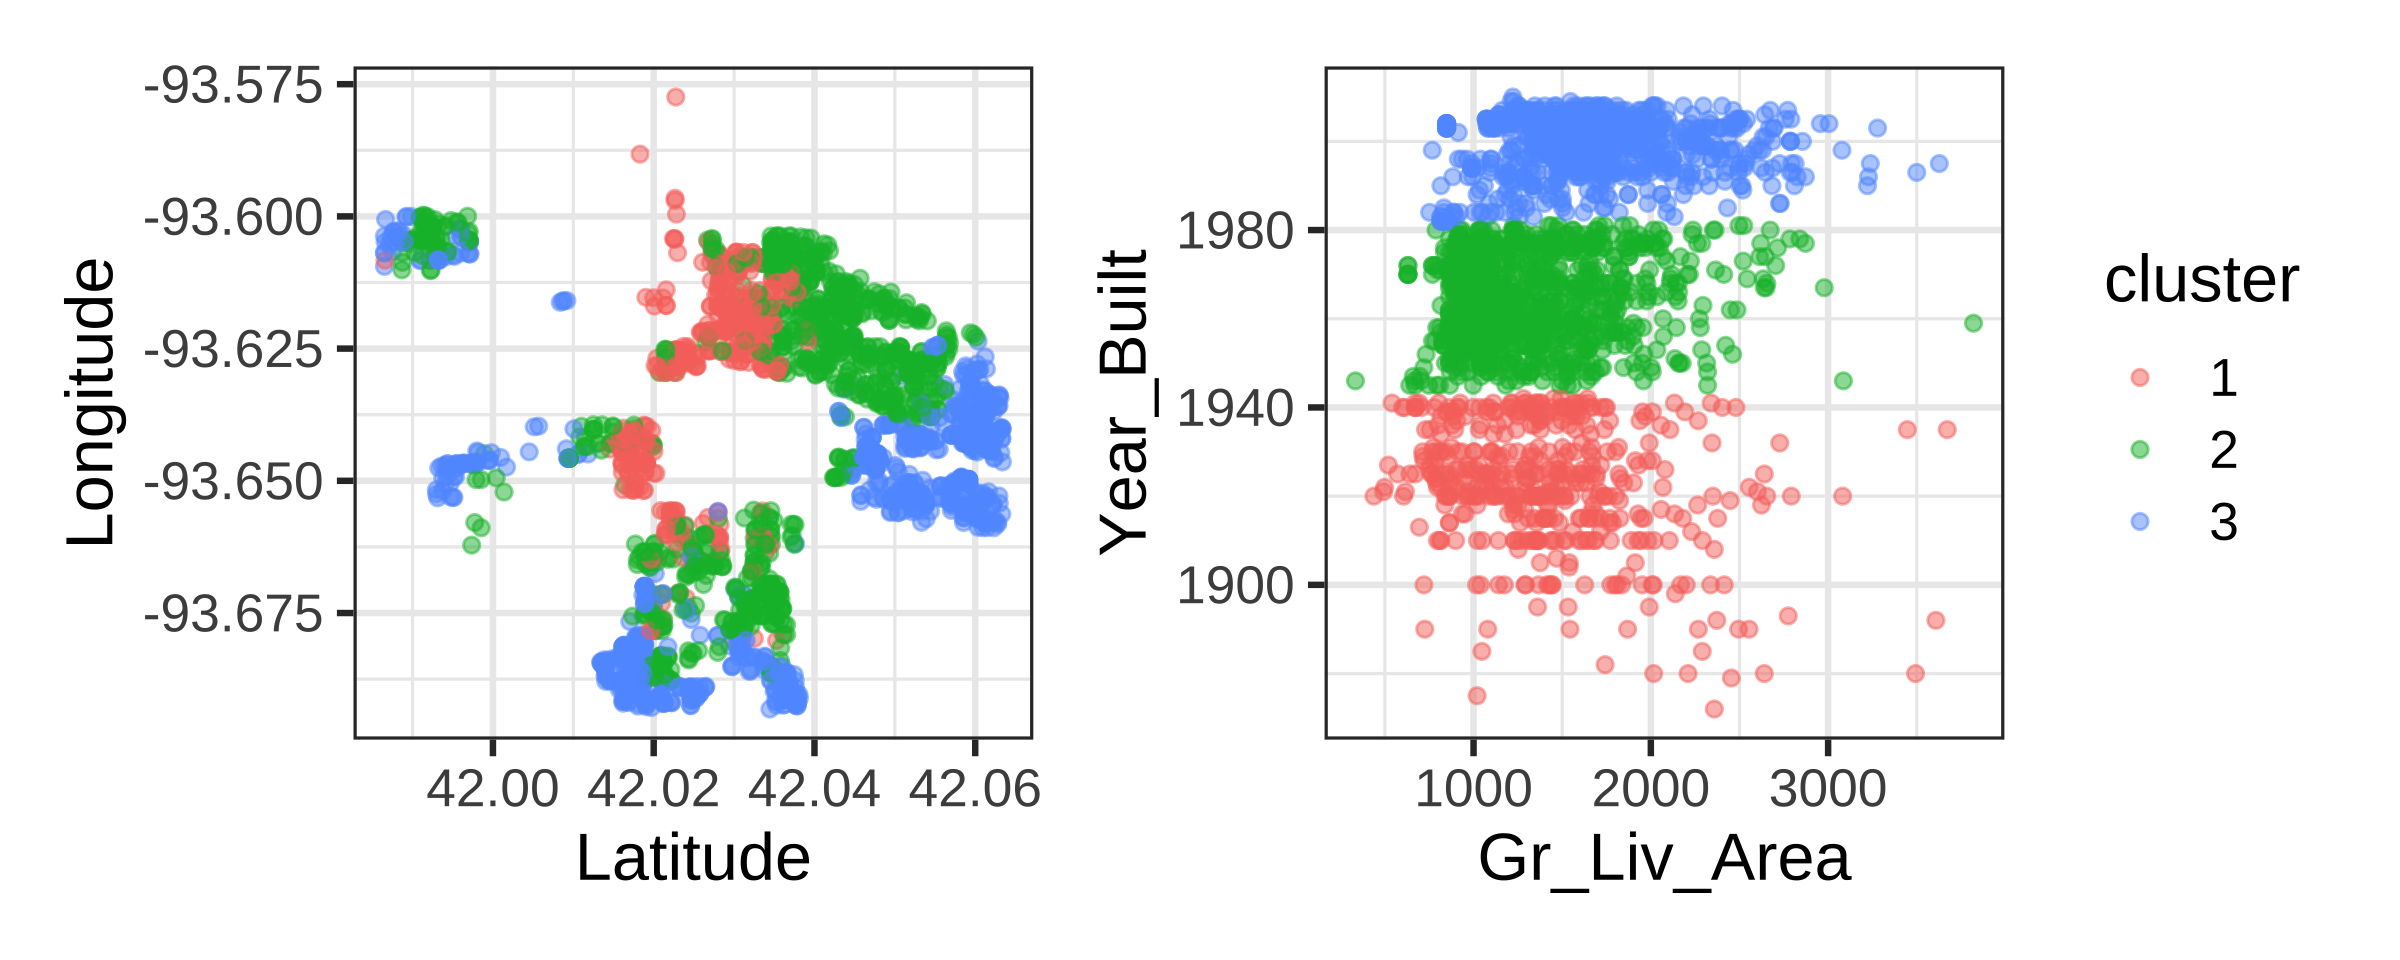
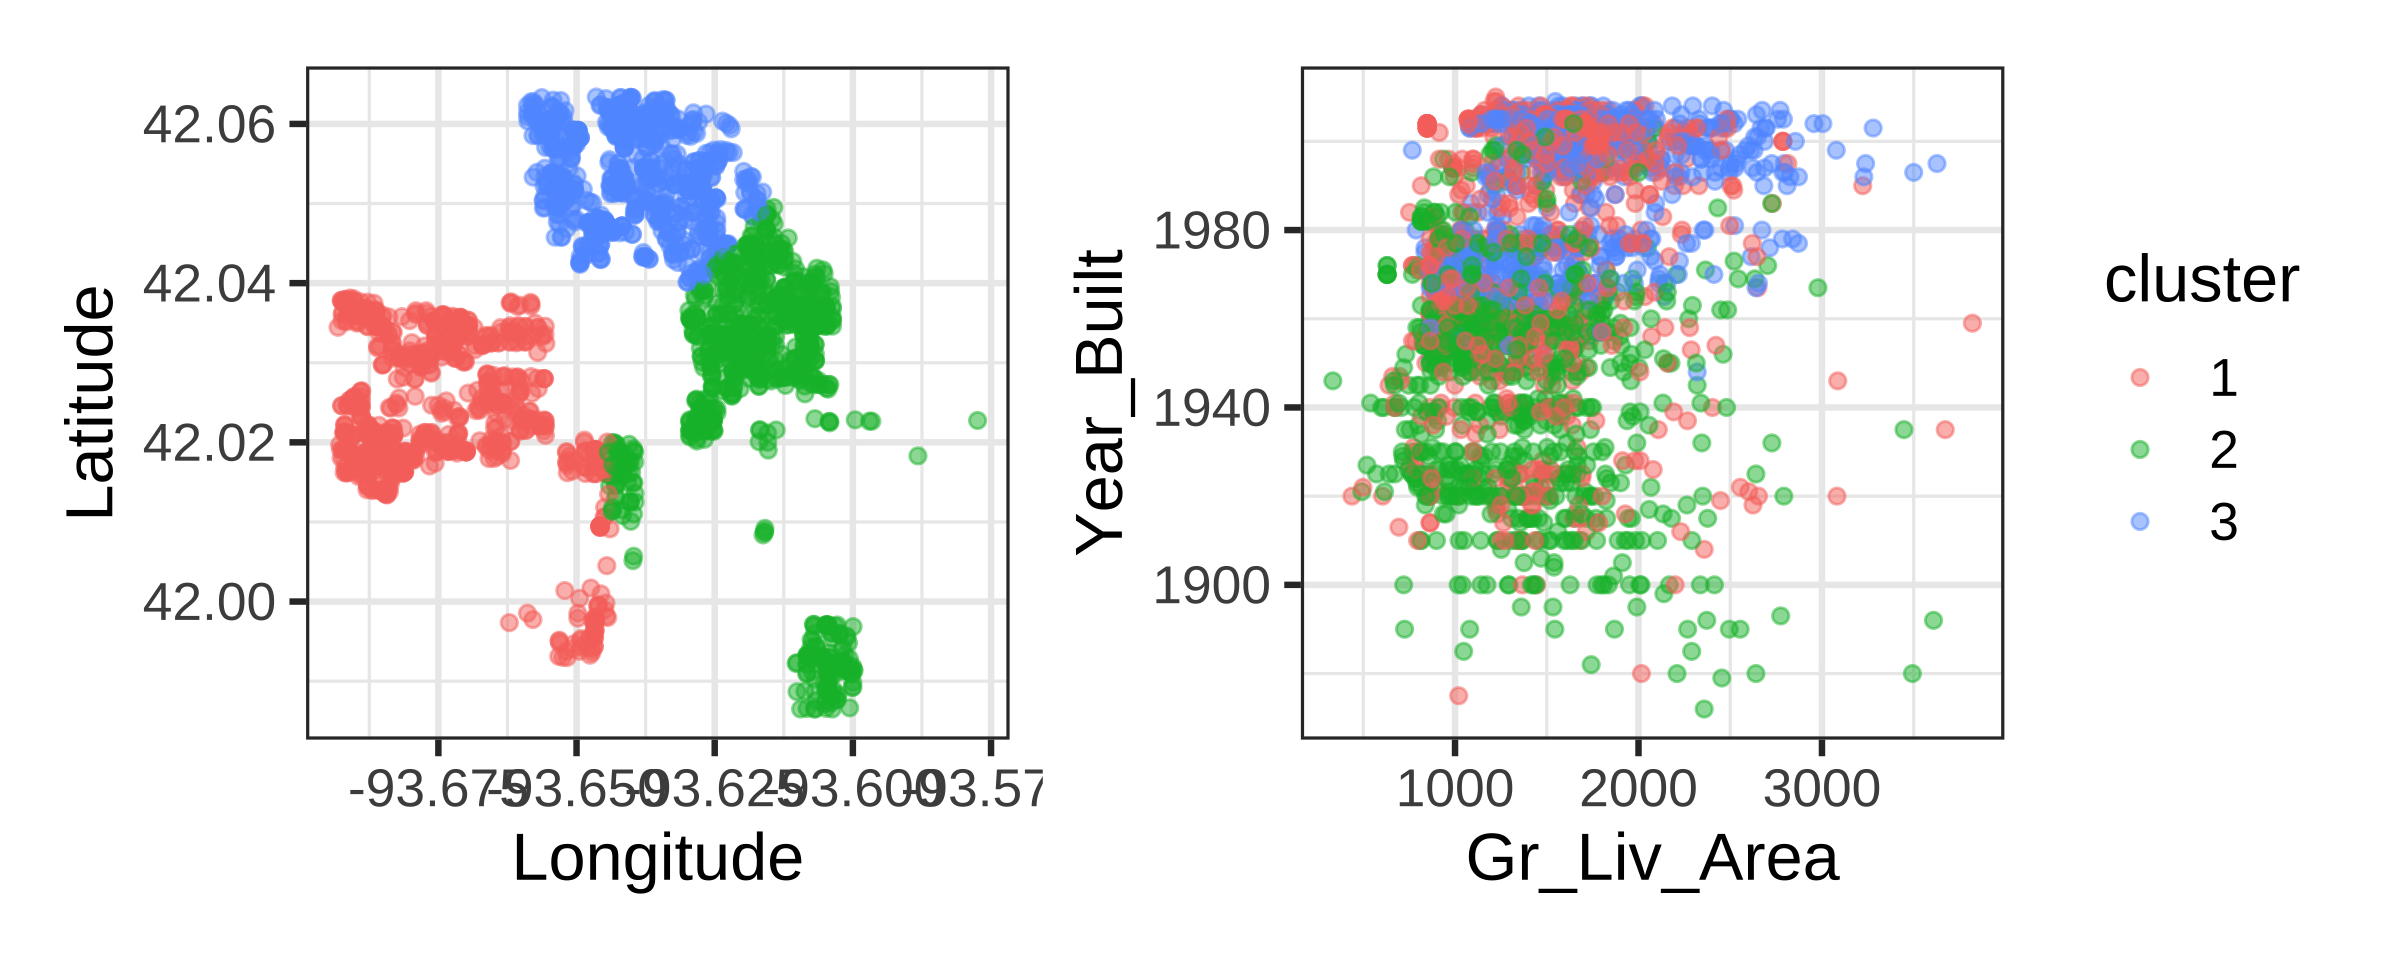
fix Lat/Long flipped, rebuild

diff --git a/docs/ex/ex11/ex11-clustering-inst.html b/docs/ex/ex11/ex11-clustering-inst.html
@@ -504,6 +504,7 @@ padding-left: 1em;
 
 
 <!-- Next year: -->
+<!-- Maybe start by having students figure out what number to divide by to put everything on the same scale. -->
 <!-- - 0-1 scaling for Gr_Liv_Area didn't make enough of a difference for students -->
 <!-- - Provide a mechanism for students to see the effective ranges -->
 <!-- - Provide a visual explanation of the sum-of-squares, or just drop it. -->

diff --git a/docs/slides/w11/w11d2-unsupervised.html b/docs/slides/w11/w11d2-unsupervised.html
@@ -225,7 +225,7 @@ tidy(clustering_results)
 
 ```r
 latlong_plot &lt;- 
-  ggplot(ames_with_clusters, aes(x = Latitude, y = Longitude, color = cluster)) +
+  ggplot(ames_with_clusters, aes(y = Latitude, x = Longitude, color = cluster)) +
     geom_point(alpha = .5)
 
 year_area_plot &lt;- 
